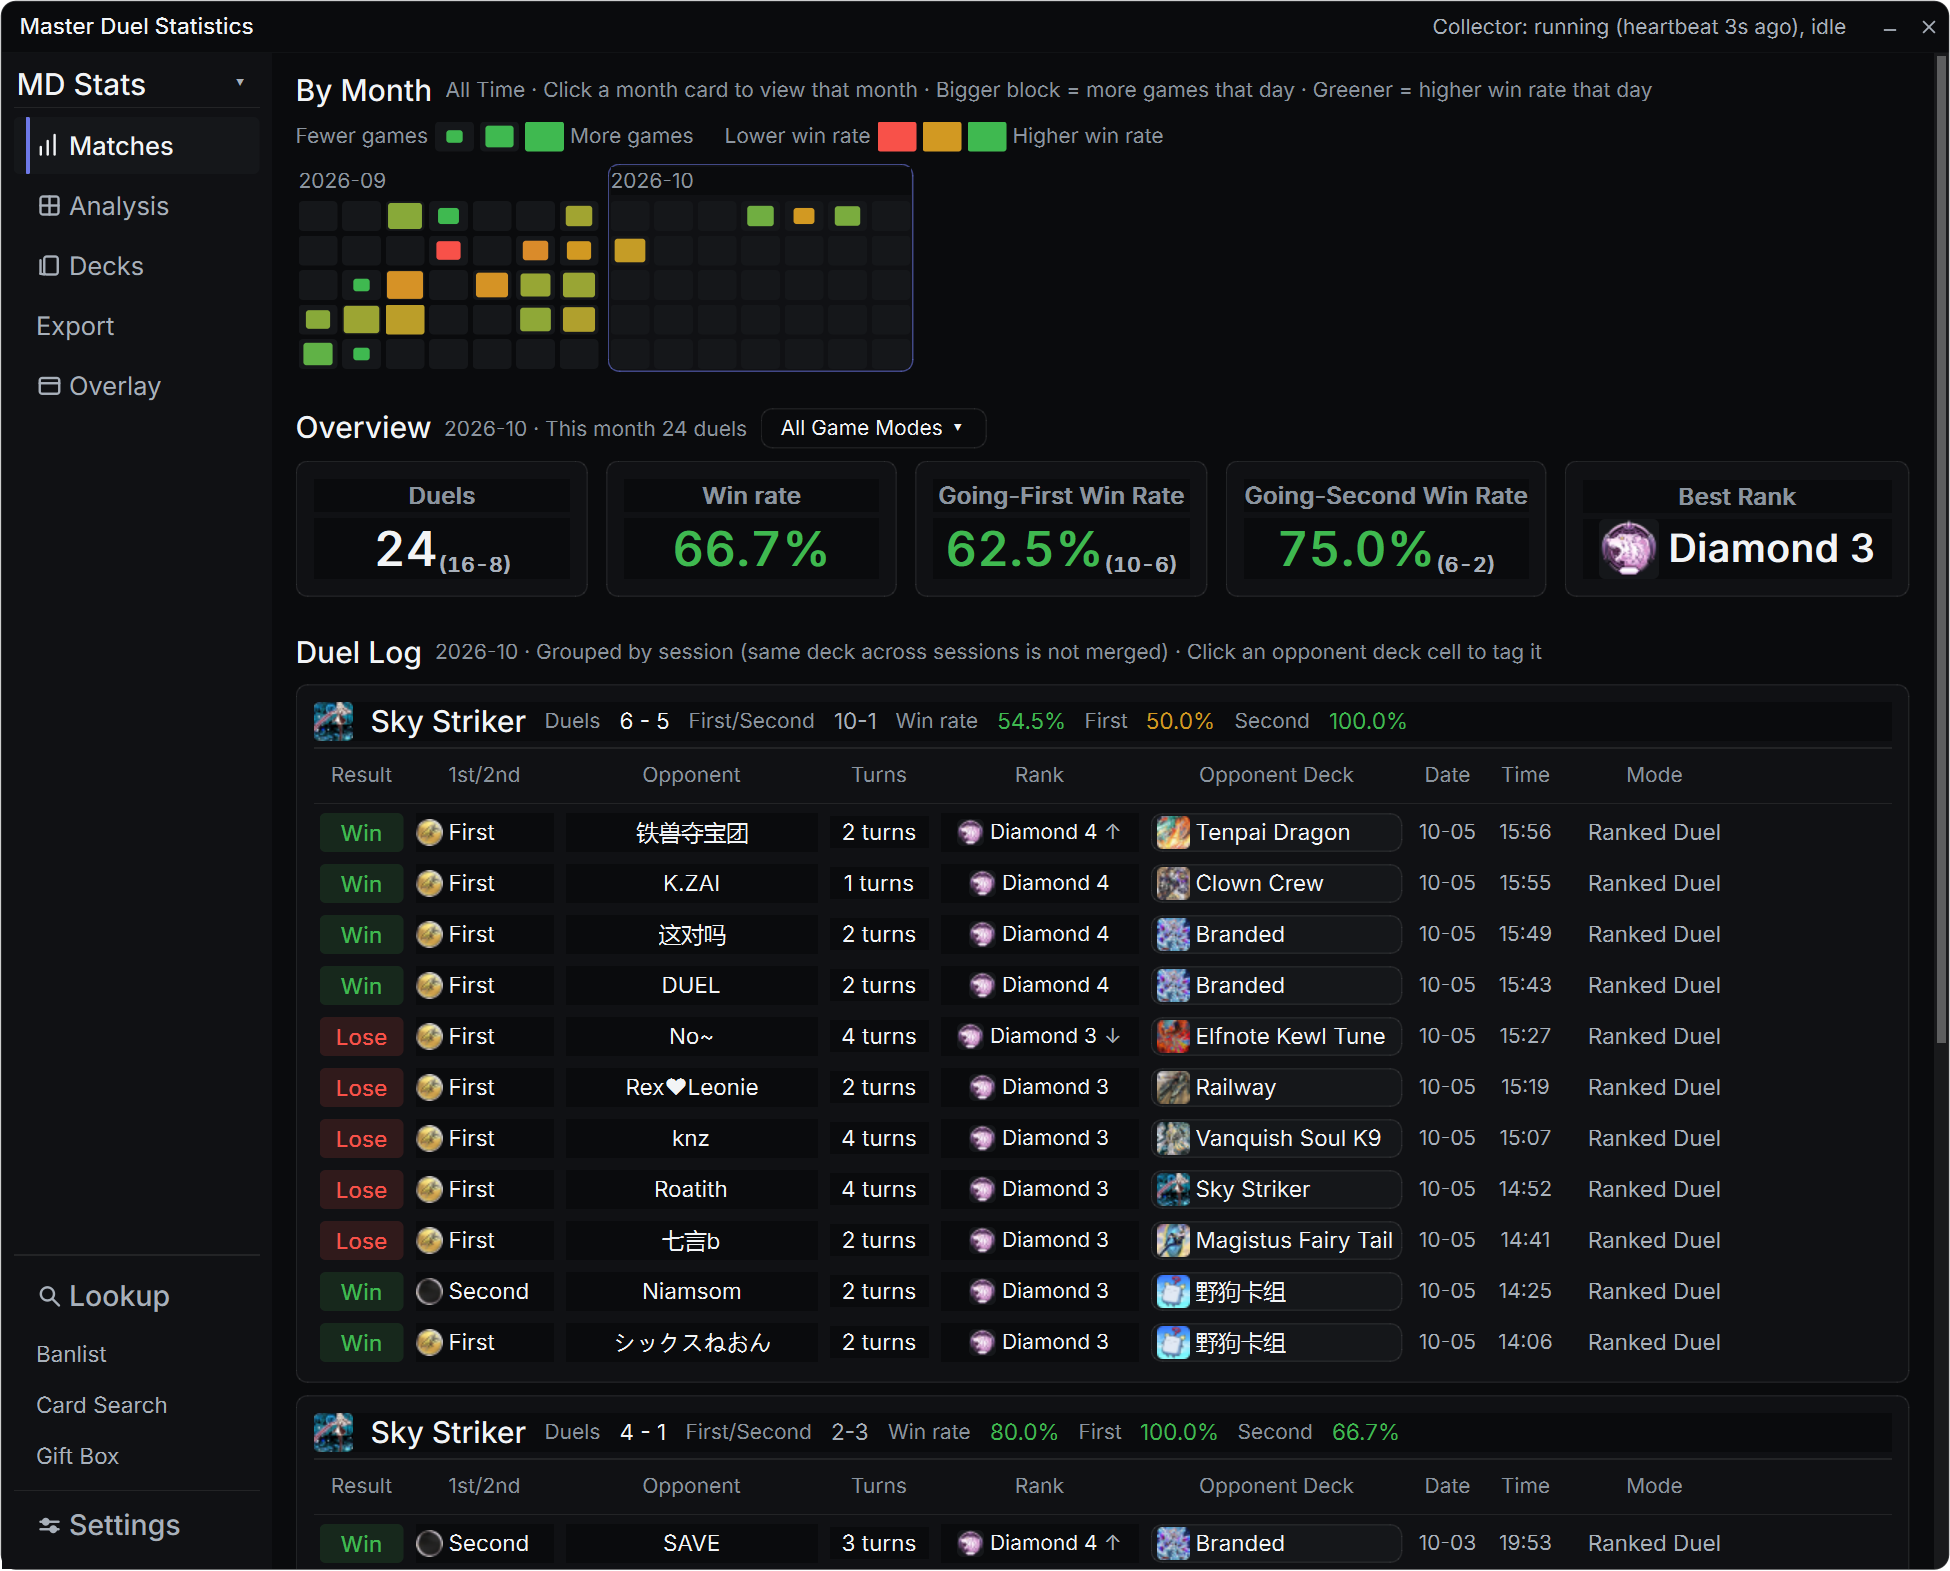
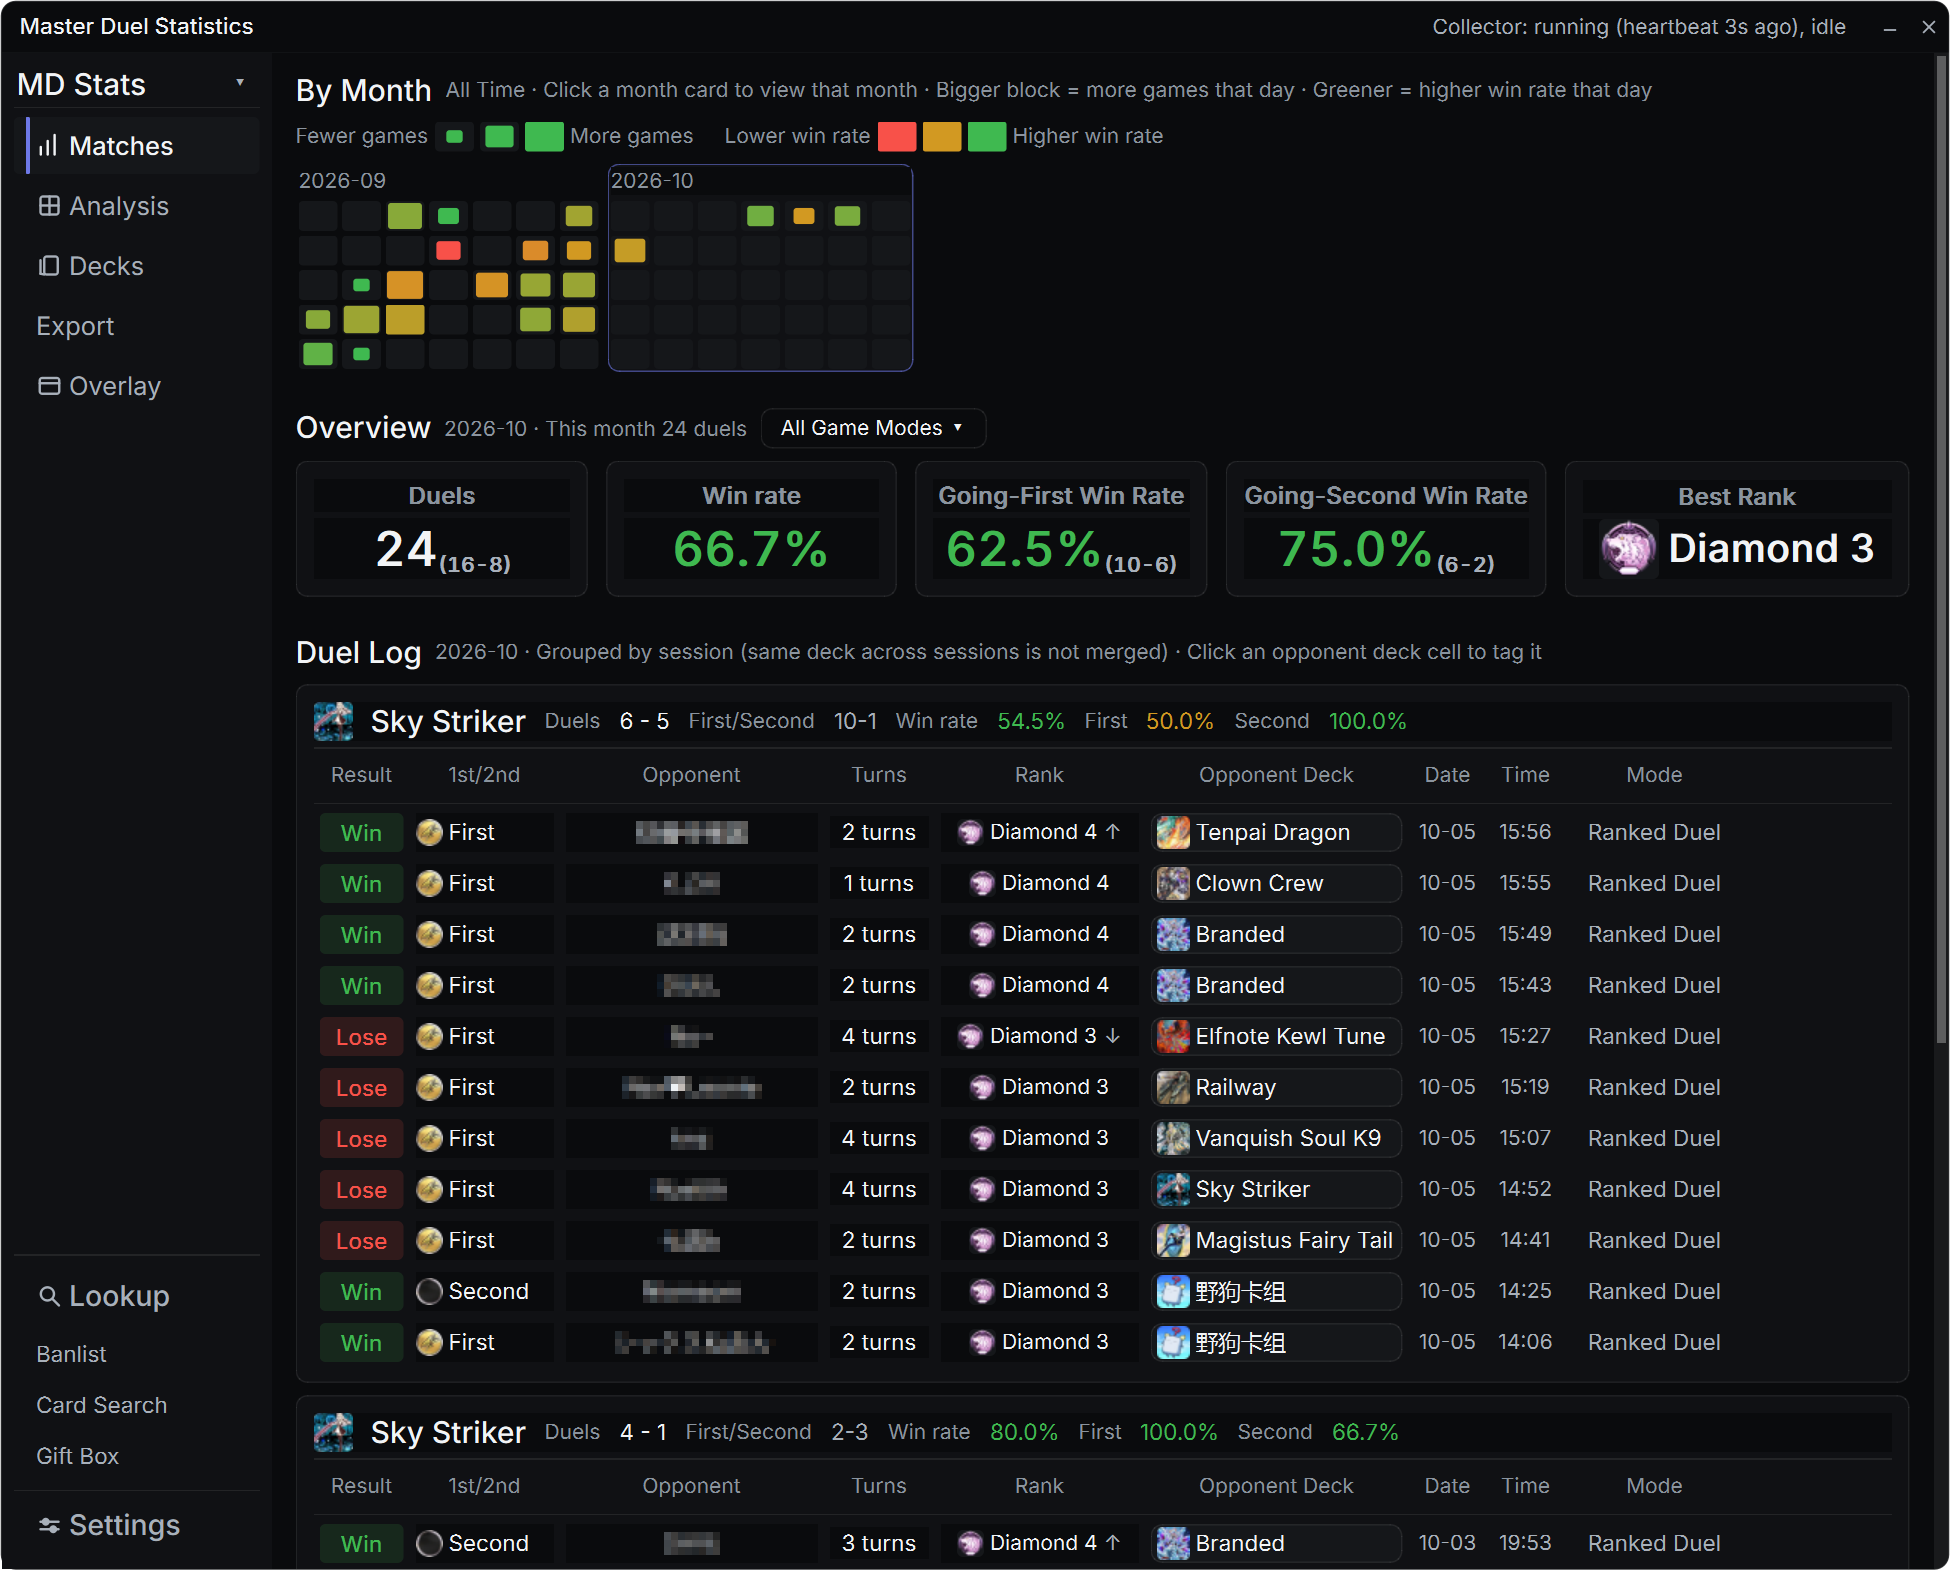
Mask opponent player names in dashboard screenshot; README: point to portable full.zip release asset

Changed region(s): [[0.3077, 0.499, 0.4, 0.8733], [0.3385, 0.9669, 0.3692, 0.9981]]

diff --git a/README.ja.md b/README.ja.md
@@ -38,6 +38,10 @@
 
 ## インストールと起動
 
+> **セットアップ不要で使いたい場合**：[Releases](../../releases/latest) から
+> `...-win64-full.zip`（全依存同梱のポータブル版）をダウンロードし、解凍して
+> `start.bat` をダブルクリック —— Python と依存関係が同梱されています。
+
 1. [Python 3.13](https://www.python.org/downloads/) をインストール
    （*Add to PATH* にチェック、または `py` ランチャーを有効化）；
 2. このリポジトリをクローンし、ルートで実行：

diff --git a/README.md b/README.md
@@ -37,6 +37,10 @@ decks, rank progress and the metagame — with UI in **English / 中文 / 日本
 
 ## Install & Run
 
+> **Prefer no setup?** Download `...-win64-full.zip` from
+> [Releases](../../releases/latest), unzip anywhere and double-click `start.bat`
+> — the bundle ships its own Python and dependencies.
+
 1. Install [Python 3.13](https://www.python.org/downloads/) (check *Add to PATH*,
    or make sure the `py` launcher works);
 2. Clone this repository and run from the repo root:

diff --git a/README.zh-CN.md b/README.zh-CN.md
@@ -31,6 +31,10 @@
 
 ## 安装与运行
 
+> **不想装环境？** 到 [Releases](../../releases/latest) 下载
+> `...-win64-full.zip`（全依赖便携包），解压后双击 `start.bat` 即可
+> —— 包里自带 Python 和全部依赖。
+
 1. 安装 [Python 3.13](https://www.python.org/downloads/)（勾选 *Add to PATH*，
    或确保 `py` 启动器可用）；
 2. 克隆本仓库，在仓库根目录执行：
